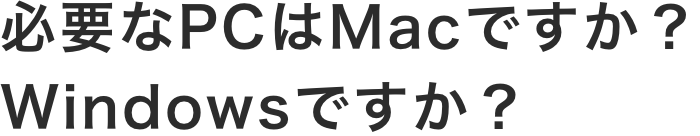
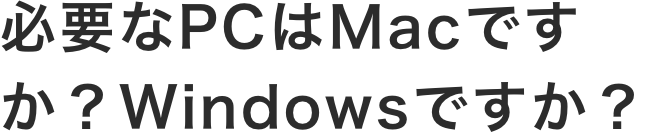
syuusei

diff --git a/assets/css/style.css b/assets/css/style.css
@@ -666,34 +666,34 @@
     display: block;
     margin: 14px 0 18px 8px;
     width: auto;
-    height: 78px;
+    height: 154px;
   }
   
   .p-question__textA2 {
     display: block;
     margin: 14px 0 18px 8px;
     width: auto;
-    height: 123px;
+    height: 200px;
   }
   
   .p-question__text3 {
     display: block;
     margin: 14px 0 18px 8px;
     width: auto;
-    height: 142px;
+    height: 266px;
   }
   
   .p-question__text4 {
     display: block;
     margin: 14px 0 18px 8px;
     width: auto;
-    height: 280px;
+    height: 494.5px;
   }
 
   .p-btmBtn {
     display: block;
     margin: 0 auto 60px;
-    width: 76%;
+    width: 85%;
     height: auto;
   }
   
@@ -708,6 +708,12 @@
 
   .p-footerNav li {
     margin-right: 16px;
+  }
+}
+
+@media only screen and (max-width: 355px) {
+  .p-questionTitleMB {
+    height: 40px;
   }
 }
 
